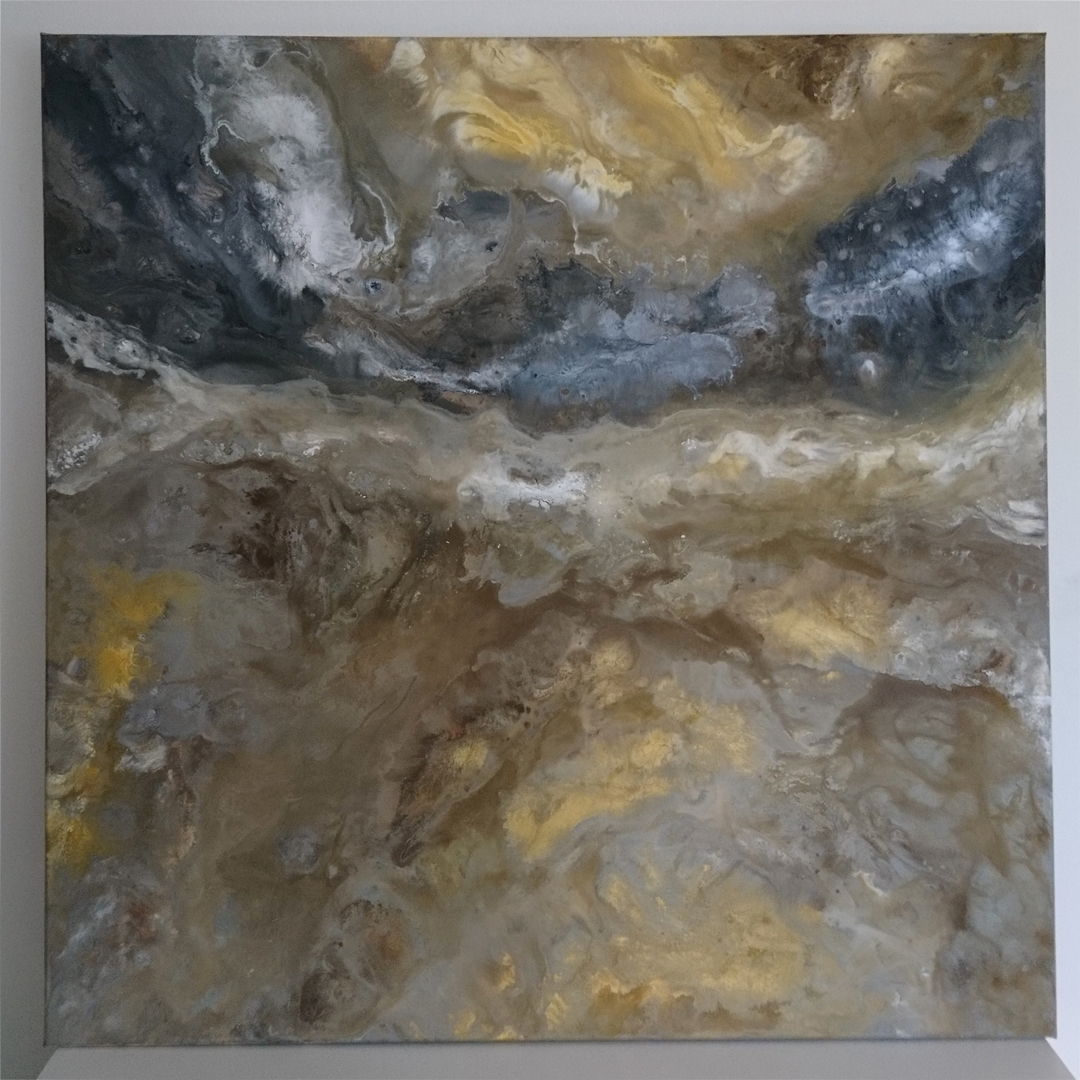
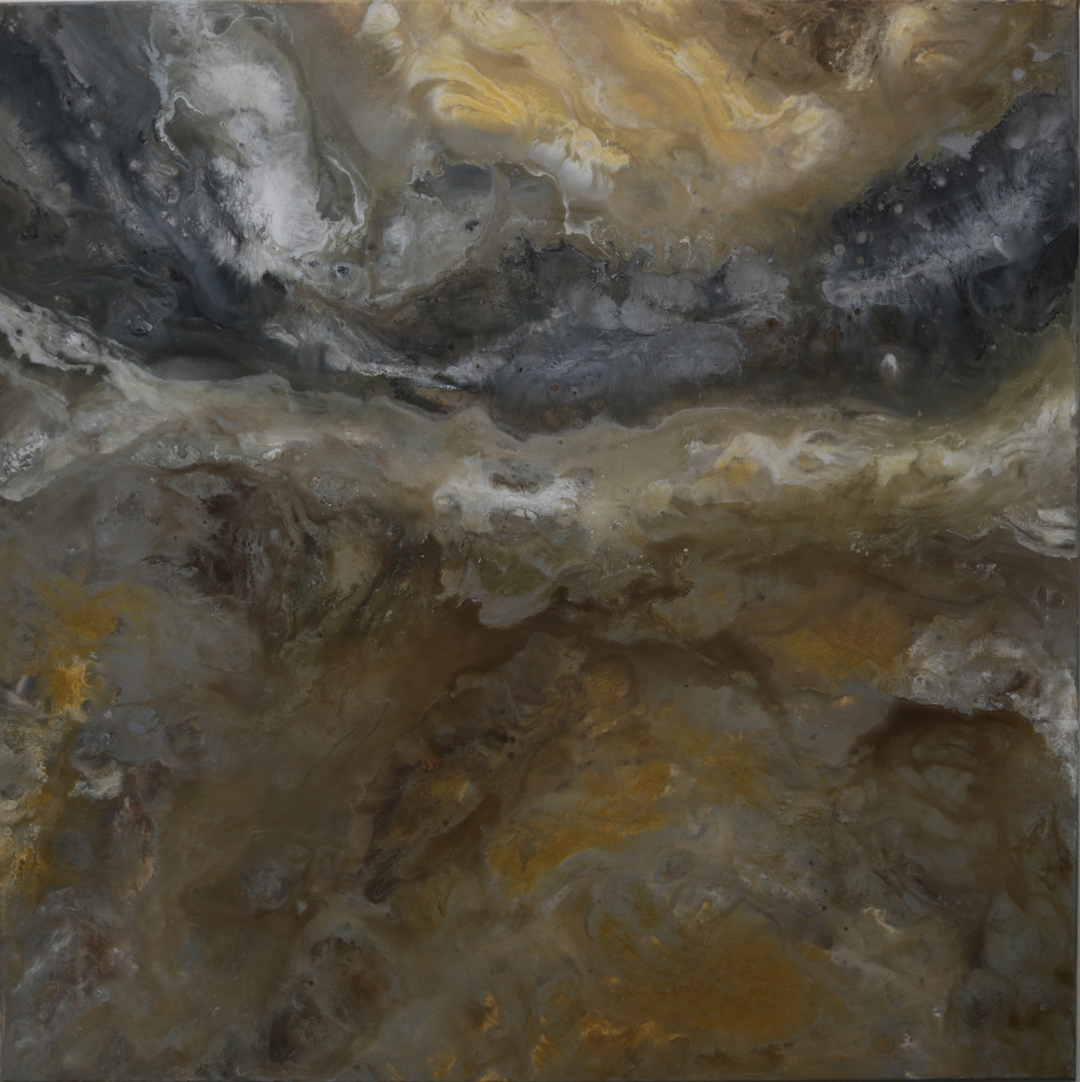
updating paintings and fonts

diff --git a/src/components/Gallery.js b/src/components/Gallery.js
@@ -15,6 +15,7 @@ font-size: 34px;
 font-weight: 300;
 text-align: center;
 margin-bottom: 50px;
+font-family: 'Marcellus SC', serif;
 `
 
 
@@ -58,39 +59,39 @@ const options = {
 const paintings = [
   {
     id: 1,
-    title: "Eldflingor",
-    price: 2500,
-    image: require("../assets/himlavalvet1.jpg")
+    title: "Havets Djup",
+    price: 2000,
+    image: require("../assets/havets-djup.jpg")
   },
   {
     id: 2,
+    title: "Eldflingor",
+    price: 2500,
+    image: require("../assets/eldflingor.jpg")
+  },
+  {
+    id: 3,
     title: "Himlavalvet",
     price: 2000,
     image: require("../assets/himlavalvet1.jpg")
   },
   {
-    id: 3,
+    id: 4,
     title: "Jordskred",
     price: 2000,
-    image: require("../assets/himlavalvet1.jpg")
-  },
-  {
-    id: 4,
-    title: "Kraftfull",
-    price: 2500,
-    image: require("../assets/himlavalvet1.jpg")
+    image: require("../assets/jordskred.jpg")
   },
   {
     id: 5,
-    title: "Havets Djup",
-    price: 2000,
-    image: require("../assets/himlavalvet1.jpg")
+    title: "Kraftfull",
+    price: 2500,
+    image: require("../assets/kraftfull.jpg")
   },
   {
     id: 6,
     title: "Medusan",
     price: 1500,
-    image: require("../assets/himlavalvet1.jpg")
+    image: require("../assets/medusan.jpg")
   },
 
 ];

diff --git a/public/index.html b/public/index.html
@@ -14,8 +14,6 @@
   <link rel="icon" type="image/png" sizes="16x16" href="/favicon-16x16.png">
   <link rel="manifest" href="/site.webmanifest">
 
-  <link href="https://fonts.googleapis.com/css2?family=Monoton&display=swap" rel="stylesheet">
-
   <!--
       manifest.json provides metadata used when your web app is installed on a
       user's mobile device or desktop. See https://developers.google.com/web/fundamentals/web-app-manifest/
@@ -33,6 +31,7 @@
   <title>Julias Portfolio</title>
   <link href="https://fonts.googleapis.com/css2?family=Poppins:wght@300;700&display=swap" rel="stylesheet" />
   <link href="https://fonts.googleapis.com/css2?family=Sacramento&display=swap" rel="stylesheet">
+  <link href="https://fonts.googleapis.com/css2?family=Marcellus&family=Marcellus+SC&display=swap" rel="stylesheet">
 </head>
 
 <body>

diff --git a/src/components/AppFooter.js b/src/components/AppFooter.js
@@ -14,12 +14,11 @@ const FooterDiv = styled.div`
 `;
 
 const ContactLink = styled.a`
-  font-family: "Poppins";
+  font-family: 'Marcellus', serif;
   font-size: 18px;
   font-weight: 400;
   color: #e7e6dc;
   text-decoration: none;
-  text-transform: uppercase;
   transition: all 0.3s;
 
   &:hover {
@@ -33,7 +32,7 @@ const ContactLink = styled.a`
 `
 
 const AttributionLink = styled.a`
-font-family: "Poppins";
+font-family: 'Marcellus', serif;
 font-size: 14px;
 font-weight: 300;
 color: #e7e6dc;

diff --git a/src/components/PaintingsCard.js b/src/components/PaintingsCard.js
@@ -31,12 +31,14 @@ const Painting = styled.img`
 
 const Title = styled.h3`
   margin-bottom: 7px;
-  color: #64a9bc;
+  color: #477a87;
   font-weight: 300;
+  font-family: 'Marcellus', serif;
 `
 const Price = styled.h5`
   color: #64a9bc;
   font-weight: 300;
+  font-family: 'Marcellus', serif;
   `
 
 

diff --git a/src/Pages/About.js b/src/Pages/About.js
@@ -12,10 +12,12 @@ const InfoText = styled.p`
   margin-right: auto;
   width: 75%;
   margin-bottom: 20px;
+  font-family: 'Marcellus', serif;
 `
 
 const Heading = styled.h3`
   color:  #477a87;
+  font-family: 'Marcellus SC', serif;
   font-size: 34px;
   font-weight: 300;
   text-align: center;

diff --git a/src/components/Header.js b/src/components/Header.js
@@ -29,8 +29,8 @@ const NameContainer = styled.div`
 `
 
 const ArtistName = styled.h1`
-  font-family: 'Monoton';
-  font-size: 42px;
+  font-family: 'Marcellus SC', serif;
+  font-size: 50px;
   font-weight: 700;
   text-align: center;
   color: #477a87;
